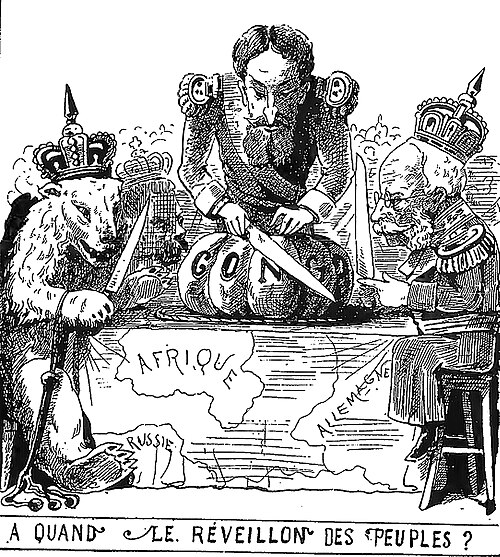
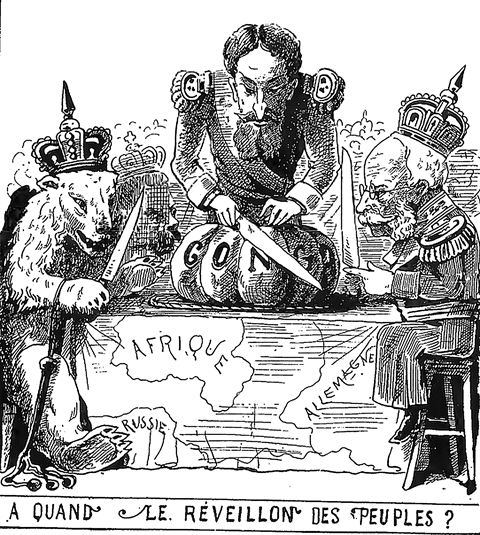
Deepen Colonialism: Berlin Conference, the Scramble, Congo & resistance
- Add Berlin Conference 1884-85, the 1880-1913 partition map, the Leopold II
  cartoon, and a Mau Mau safe conduct pass (restored col-berlin cartoon too)
- New sections on the Berlin rules, the speed of partition, the Congo Free
  State, and continent-wide resistance
- References (Pakenham; Iliffe; Hochschild; Morel; Casement) + credits in sources

Changed region(s): [[0.0, 0.0299, 1.0, 1.0], [0.25, 0.628, 0.5, 0.7477]]

diff --git a/colonialism.html b/colonialism.html
@@ -106,6 +106,40 @@
     </div>
   </section>
 
+  <!-- DEEPENING -->
+  <section class="section wrap">
+    <div class="center mb-8 reveal">
+      <span class="kicker">How it was done</span>
+      <h2 class="gold-text" style="font-size:clamp(1.6rem,3.6vw,2.4rem)">A continent redrawn on paper</h2>
+    </div>
+    <div class="grid grid-2">
+      <article class="card reveal">
+        <span class="kicker">Berlin, 1884–85</span>
+        <h2 class="gold-text" style="font-size:1.3rem">Lines drawn without Africans</h2>
+        <p class="dim small">European powers met in Berlin to set the "rules" for claiming Africa — effective occupation, free navigation, and no slave trade in name. Not one African ruler was at the table. Borders were drawn on maps, then imposed by force.</p>
+      </article>
+      <article class="card reveal">
+        <span class="kicker">The map</span>
+        <h2 class="gold-text" style="font-size:1.3rem">From ~10% to almost all</h2>
+        <p class="dim small">In 1880 Europeans directly controlled perhaps a tenth of Africa. By 1913 only Ethiopia and Liberia remained independent. The speed of the partition — barely three decades — is why it is called the Scramble.</p>
+      </article>
+      <article class="card reveal">
+        <span class="kicker">Congo</span>
+        <h2 class="gold-text" style="font-size:1.3rem">The Congo Free State</h2>
+        <p class="dim small">King Leopold II of Belgium ruled the Congo Free State as his private possession (1885–1908), extracting rubber and ivory through terror and hostage-taking. Campaigners like E. D. Morel and the Casement Report exposed a catastrophe of millions of lives.</p>
+      </article>
+      <article class="card reveal">
+        <span class="kicker">Resistance</span>
+        <h2 class="gold-text" style="font-size:1.3rem">Wars that never stopped</h2>
+        <p class="dim small">Samori Ture held out for years; Maji Maji shook German East Africa (1905–07); the Herero and Nama were driven into the first genocide of the twentieth century (1904–08); the Mau Mau fought settler Kenya into the 1950s.</p>
+      </article>
+    </div>
+  </section>
+
+  <section class="section wrap" style="padding-top:0">
+    <figure class="plate plate-wide reveal" data-image="col-scramble"></figure>
+  </section>
+
   <!-- ARCHIVE PLATES -->
   <section class="section wrap">
     <div class="center mb-8 reveal">
@@ -118,6 +152,9 @@
       <figure class="plate reveal" data-image="col-berlin"></figure>
       <figure class="plate reveal" data-image="col-samori"></figure>
       <figure class="plate reveal" data-image="col-menelik"></figure>
+      <figure class="plate reveal" data-image="col-conference"></figure>
+      <figure class="plate reveal" data-image="col-congo"></figure>
+      <figure class="plate reveal" data-image="col-maumau"></figure>
     </div>
   </section>
 

diff --git a/assets/js/data/images.js b/assets/js/data/images.js
@@ -725,5 +725,41 @@ window.UnbrokenImages = {
     credit: "Abraham Raimbach (Public domain)", license: "Public domain",
     licenseUrl: "",
     source: "https://commons.wikimedia.org/wiki/File:Leonard_Parkinson,_A_Captain_of_the_Maroons;_taken_from_the_Life,_1796.jpg"
+  },
+  "col-conference": {
+    dir: "col-conference", ext: "jpg", widths: [480, 800],
+    alt: "The Berlin Conference of 1884–85, European powers seated around a table",
+    title: "The Berlin Conference",
+    caption: "The Berlin Conference, 1884–85. European powers set the rules for partitioning Africa; no African ruler took part.",
+    credit: "Anonymous (CC0)", license: "CC0",
+    licenseUrl: "https://creativecommons.org/publicdomain/zero/1.0",
+    source: "https://commons.wikimedia.org/wiki/File:Berlin_Conference,_1884%E2%80%9385.jpg"
+  },
+  "col-scramble": {
+    dir: "col-scramble", ext: "jpg", widths: [480, 800, 1280],
+    alt: "Map showing the European partition of Africa between 1880 and 1913",
+    title: "The Scramble for Africa",
+    caption: "The partition of Africa, 1880 to 1913. In barely three decades, almost the entire continent was carved into European colonies.",
+    credit: "davidjl123 / Somebody500 (CC BY-SA 4.0)", license: "CC BY-SA 4.0",
+    licenseUrl: "https://creativecommons.org/licenses/by-sa/4.0",
+    source: "https://commons.wikimedia.org/wiki/File:Scramble-for-Africa-1880-1913.png"
+  },
+  "col-congo": {
+    dir: "col-congo", ext: "jpg", widths: [480, 800],
+    alt: "A British satirical cartoon depicting King Leopold II and the Congo Free State",
+    title: "Leopold II & the Congo Free State",
+    caption: "A satirical cartoon on King Leopold II's Congo Free State, run as his private venture (1885–1908). Rubber and ivory were extracted through terror.",
+    credit: "Francis Carruthers Gould (Public domain)", license: "Public domain",
+    licenseUrl: "",
+    source: "https://commons.wikimedia.org/wiki/File:Cartoon_by_British_caricaturist_%27Francis_Carruthers_Gould%27_depicting_King_Leopold_2,_and_Congo_Free_State.jpg"
+  },
+  "col-maumau": {
+    dir: "col-maumau", ext: "jpg", widths: [400, 640],
+    alt: "A Mau Mau safe conduct pass issued during the Kenya Emergency",
+    title: "Mau Mau safe conduct pass",
+    caption: "A safe conduct pass from the Kenya Emergency. The Mau Mau uprising (1952–60) turned colonial Kenya into a battleground and hastened its independence.",
+    credit: "Brigade Piron (CC BY 3.0)", license: "CC BY 3.0",
+    licenseUrl: "https://creativecommons.org/licenses/by/3.0",
+    source: "https://commons.wikimedia.org/wiki/File:Mau_Mau_safe_conduct_pass.jpg"
   }
 };

diff --git a/SOURCES.html b/SOURCES.html
@@ -123,6 +123,8 @@
           "Note: trans-Saharan & Indian Ocean figures are scholarly estimates, presented as such." ] },
         { h: "Volume III — Colonialism & independence", items: [
           "Berlin Conference 1884–85 — Pakenham, The Scramble for Africa; Förster et al.",
+          "Partition pace (Europeans ruled ~10% in 1880; by 1913 only Ethiopia & Liberia independent) — Pakenham; Iliffe",
+          "Congo Free State 1885–1908; Leopold II; Morel; Casement Report 1904 — Hochschild; Morel. Mortality figures are estimates.",
           "Battle of Adwa 1896 — Jonas, The Battle of Adwa",
           "Herero & Namaqua genocide 1904–08 — Olusoga & Erichsen; UN Whitaker Report",
           "Maji Maji 1905–07; Golden Stool 1900; Mau Mau 1952–60 — Iliffe; Boahen; Anderson",
@@ -162,6 +164,7 @@
           "Ouidah Door of No Return (CC0); Brookes ship plan; Olaudah Equiano (CC0); Gorée Island (Adjoajo, CC BY-SA 4.0)",
           "Slavery — Toussaint Louverture, Cinqué, Frederick Douglass, Maroon captain (1796) — public domain portraits",
           "Africa 1914 map; Rhodes Colossus (Sambourne); Samori Ture; Berlin cartoon (Maréchal); Menelik II — public domain",
+          "Berlin Conference 1884–85 (CC0); Scramble for Africa 1880–1913 (Somebody500, CC BY-SA 4.0); Leopold II cartoon (C. Gould, PD); Mau Mau safe conduct pass (Brigade Piron, CC BY 3.0)",
           "Independence 1960 (public domain); Jomo Kenyatta (public domain); Mandela voting (Paul Weinberg, CC BY-SA 3.0); Lumumba (Anefo, CC0)",
           "Kente (Warmglow, CC0); Himba (Hans Stieglitz, CC BY-SA 3.0); Maasai beadwork (Cecilia Nkini, CC BY-SA 4.0); Adire (Tunde Akangbe, CC BY-SA 4.0)",
           "Volume IV — Ishango bone (Claire H., CC BY-SA 2.0); Nabta Playa (Raymbetz, CC BY-SA 3.0); Edwin Smith papyrus (public domain); Ebers papyrus (Wellcome Collection, CC BY 4.0)",

diff --git a/SOURCES.md b/SOURCES.md
@@ -83,6 +83,8 @@ If you find an error or a better citation, edit this file and `assets/js/data/hi
 
 ## Volume III — Colonialism & independence
 - **Berlin Conference (1884–85)** — primary records; Pakenham, *The Scramble for Africa*; Förster, Mommsen & Robinson, *Bismarck, Europe, and Africa*.
+- **Pace of partition (Europeans directly ruled ~10% of Africa in 1880; by 1913 only Ethiopia and Liberia independent)** — Pakenham; Iliffe, *Africans: The History of a Continent*.
+- **Congo Free State (1885–1908); Leopold II; E. D. Morel; Casement Report (1904); catastrophic mortality.** Hochschild, *King Leopold's Ghost*; Morel, *Red Rubber*; Casement Report (British Parliamentary Papers). Death tolls are **estimates** and debated.
 - **Battle of Adwa (1896)** — Jonas, *The Battle of Adwa*.
 - **Herero & Namaqua genocide (1904–08)** — Olusoga & Erichsen, *The Kaiser's Holocaust*; UN/Whitaker Report.
 - **Maji Maji (1905–07); War of the Golden Stool (1900); Mau Mau (1952–60)** — Iliffe, *Tanganyika under German Rule*; Boahen, *African Perspectives on Colonialism*; Anderson, *Histories of the Hanged*.
@@ -179,6 +181,10 @@ Every photograph and artwork on the site is public-domain, CC0, or a Creative Co
 - **Samori Ture, in exile** — Unknown photographer; via Wikimedia Commons (Public domain). https://commons.wikimedia.org/wiki/File:Mali.(Kayes)_Samory_%C3%A9coutant_la_sentence_le_condamnant_%C3%A0_l%27exil.jpg
 - **Carving up a continent** — François Maréchal; via Wikimedia Commons (Public domain). https://commons.wikimedia.org/wiki/File:Cartoon_depicting_Leopold_2_and_other_emperial_powers_at_Berlin_conference_1884.jpg
 - **Emperor Menelik II** — Unknown photographer; via Wikimedia Commons (Public domain). https://commons.wikimedia.org/wiki/File:Menelik_II_of_Ethiopia_Negusa_Nagast.jpg
+- **The Berlin Conference, 1884–85** — Anonymous (CC0). https://commons.wikimedia.org/wiki/File:Berlin_Conference,_1884–85.jpg
+- **The Scramble for Africa, 1880–1913** — davidjl123 / Somebody500 (CC BY-SA 4.0). https://commons.wikimedia.org/wiki/File:Scramble-for-Africa-1880-1913.png
+- **Leopold II and the Congo Free State (cartoon)** — Francis Carruthers Gould (Public domain). https://commons.wikimedia.org/wiki/File:Cartoon_by_British_caricaturist_%27Francis_Carruthers_Gould%27_depicting_King_Leopold_2,_and_Congo_Free_State.jpg
+- **Mau Mau safe conduct pass** — Brigade Piron (CC BY 3.0). https://commons.wikimedia.org/wiki/File:Mau_Mau_safe_conduct_pass.jpg
 - **Independence day, 1960** — Somaliland Standard; via Wikimedia Commons (Public domain). https://commons.wikimedia.org/wiki/File:Somaliland_independence_26_June_1960.jpg
 - **Jomo Kenyatta** — Pridan Moshe; via Wikimedia Commons (Public domain). https://commons.wikimedia.org/wiki/File:Jomo_Kenyatta_(cropped)_in_June_15th,_1966.jpg
 - **Mandela votes, 1994** — Paul Weinberg (CC BY-SA 3.0). https://commons.wikimedia.org/wiki/File:Mandela_voting_in_1994.jpg
